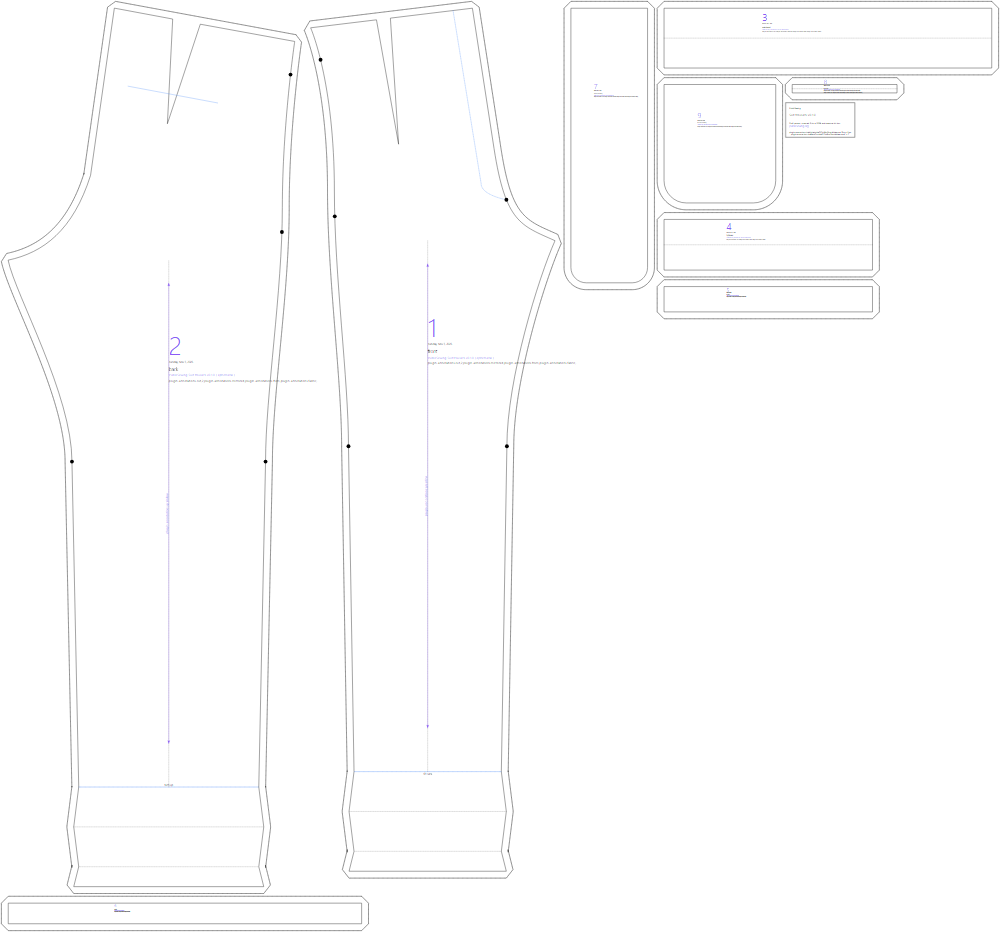
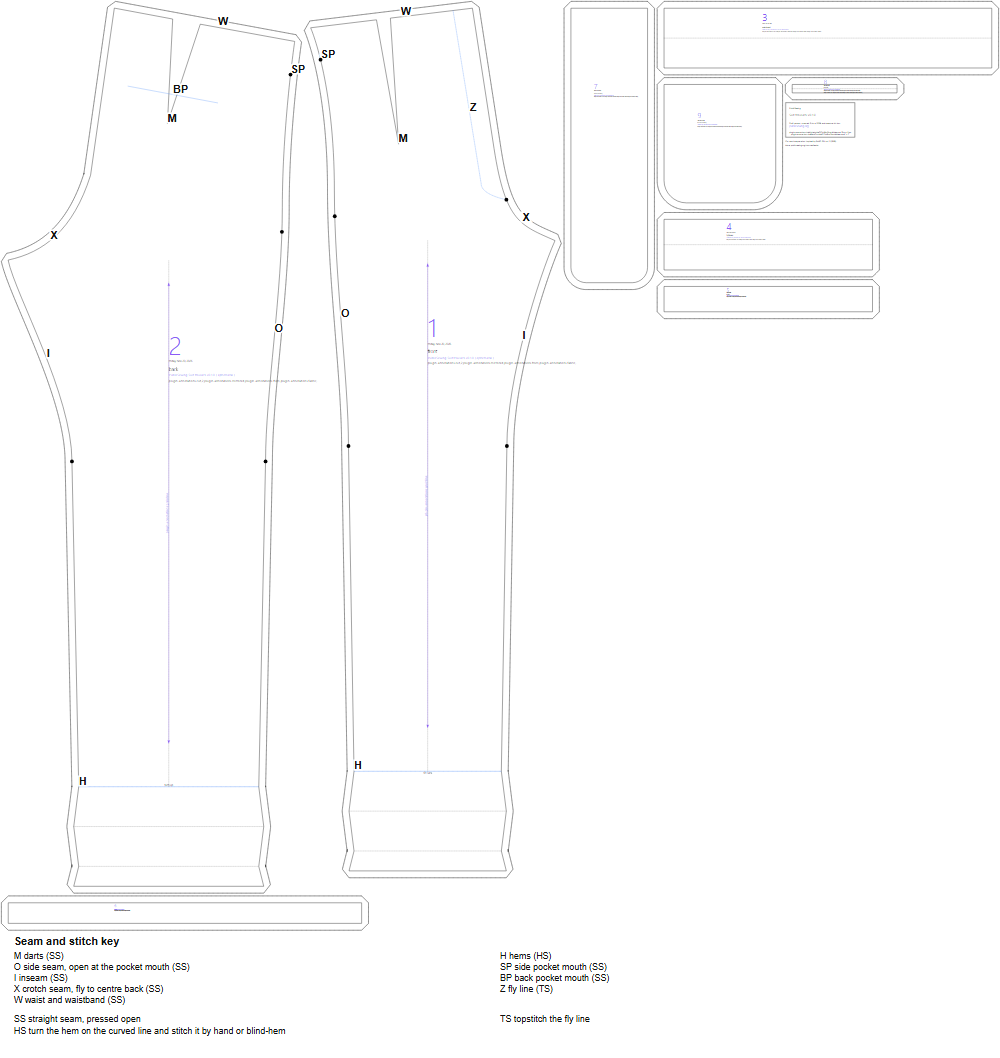
Map the suit trousers: darts, pockets, fly, crotch, inseams, waistband
The ten trouser designs extending them opt out of the inherited map until
mapped themselves.

diff --git a/designs/suit-trousers/BRIEF.md b/designs/suit-trousers/BRIEF.md
@@ -58,16 +58,15 @@ The tables give no pockets, fly or waistband sizes: those are this design's, bel
   over the fly shield; **belt loops** (`beltLoops`, 7) cut from one strip.
 
 ## Construction order
-1. Darts in the backs and fronts; press the back darts toward CB, the front darts toward CF.
-2. Back pockets: jets and bags, as a welt pocket with two jets.
-3. Side pockets: bag pieces to the front and back side seams; sew the side seams above and below
-   the mouth, then round the bags.
-4. Inseams.
-5. Fly: the facing to the left front, the shield to the right; zip between them; topstitch the
-   fly line; then the crotch seam from the fly's end to CB.
-6. Belt loops; waistband halves to the waist, the CB seam through the band; fold, and finish the
-   ends over the fly.
-7. Hems, turned up on the curved line.
+Letters are the seam and placement codes on the pattern map; numbers are printed on the pieces. **SS** straight seam pressed open, **TS** topstitch, **HS** hem stitch.
+
+1. Sew the darts **M** in the backs **2** and fronts **1**; press the back darts toward CB, the front darts toward CF.
+2. Back pockets at the mouth **BP** on the backs **2**: welt **8** and bags **9**, made as a welt pocket with two jets.
+3. Side pockets: sew the bag pieces **7** to the front **1** and back **2** side seams at the mouth **SP**; sew the side seams **O** above and below the mouth, then round the bags. Without side pockets, sew **O** straight through.
+4. Sew the inseams **I** of the fronts **1** and backs **2**.
+5. Fly: the facing **5** to the left front **1**, the shield **4** to the right; the zip between them; topstitch the fly line **Z** with **TS**; then sew the crotch seam **X** from the fly's end to CB through the fronts **1** and backs **2**.
+6. Sew the belt loops **6**; the waistband **3** halves to the waist **W** of the fronts **1** and backs **2**, the CB seam through the band; fold, and finish the ends over the fly.
+7. Turn up the hems **H** of the fronts **1** and backs **2** on the curved line with **HS**.
 
 ## Changes and what isn't modelled
 - **Turn-ups** (off; `turnUps`, and the variant): Simons, *Drafting Pants and Overalls* (1916), `draftingpantsove00simo`,
